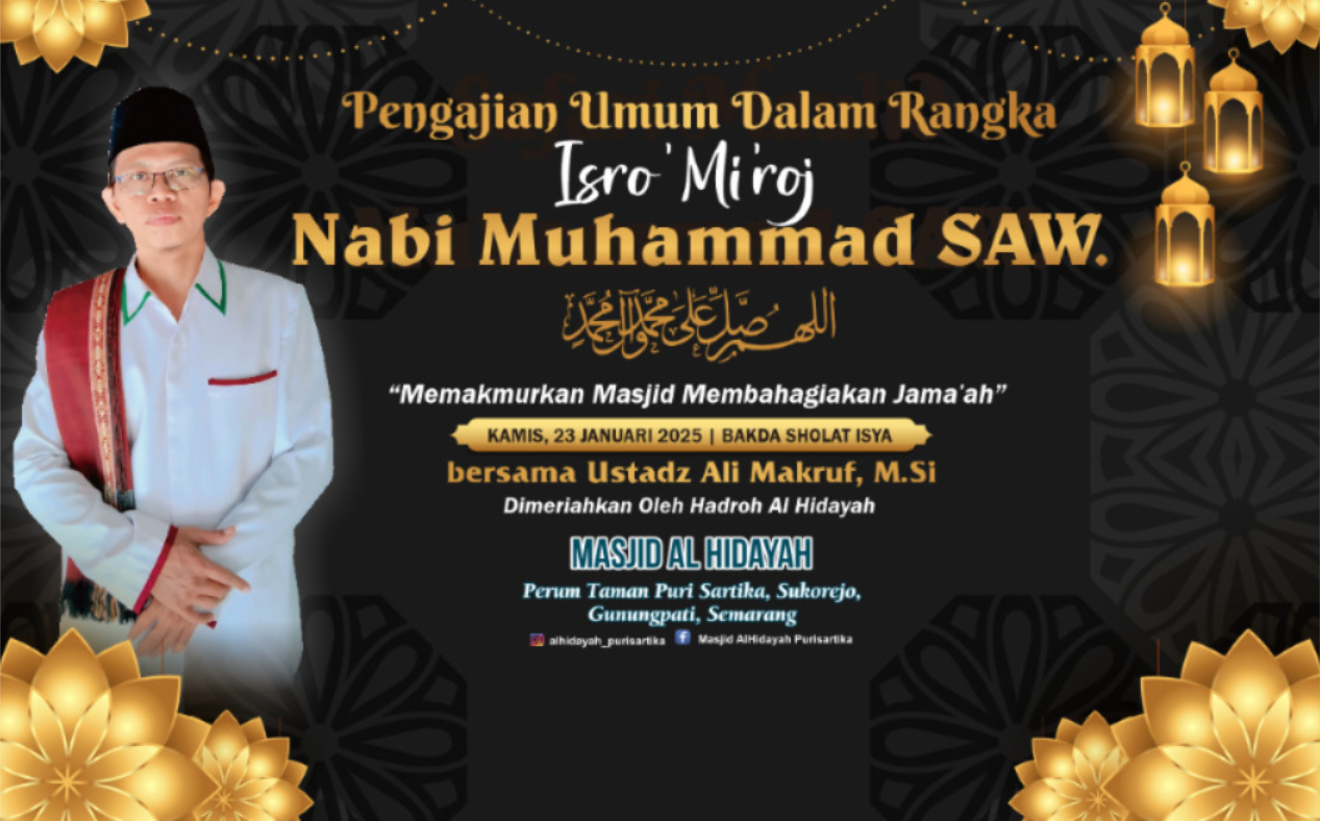
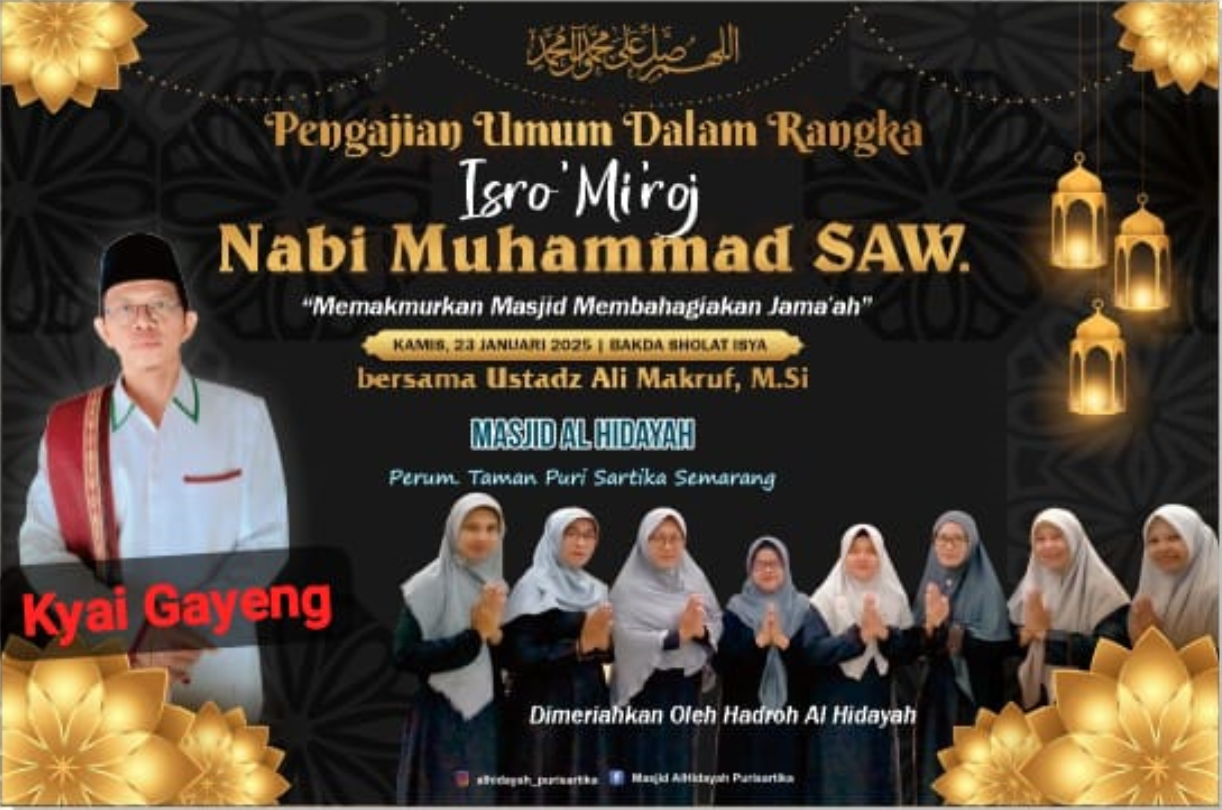
Update website

diff --git a/src/pages/News/News.jsx b/src/pages/News/News.jsx
@@ -1,3 +1,5 @@
+import "./News.css"
+
 export default function News(){
     return (
         <section id="news" className="bg-primary py-32">
@@ -8,20 +10,46 @@ export default function News(){
                         <h2 className="font-bold text-2xl text-white sm:text-3xl">Masjid Al-Hidayah</h2>
                     </div>
                 </div>
-                <div id="content" className="flex flex-wrap">
+                <div id="content" className="flex flex-wrap md:flex-nowrap">
                     <div id="berita" className="p-6">
                         <img 
                         src="https://github.com/raaflahar/masjid-al-hidayah-puri/blob/main/src/img/berita-satu.jpg?raw=true" 
                         alt="Pertemuan Rutin Pengurus Masjid" 
                         className="w-[700px] max-w-md rounded-lg shadow-lg transition-transform duration-300 ease-in-out hover:scale-105 sm:max-w-2xl"/>
                         <h1 className="font-semibold text-white text-md py-2 sm:text-xl">Rapat Kerja DKM Masjid Al-Hidayah</h1>
+                        <div>
+                            <p className="title">Assalamualaikum Warahmatullah Wabaraktuh</p>
+                            <p className="paragraph">Segala puji bagi Allah SWT, Sholawat serta salam selalu kita dengungkan untuk Baginda Rasulullah SAW.</p>
+                            <p className="paragraph">Masjid Al-Hidayah mengadakan Rapat DKM Masjid pada tanggal <span className="text-secondary">19 Januari 2024</span> di Barokah, Sebatur</p>
+                            <p className="paragraph my-1">Agenda-agenda yang dilaksanakan antara lain:</p>
+                            <ol className="font-semibold text-white text-base list-decimal ml-10 sm:text-lg">
+                                <li className="paragraph">Pengesahan Kepengurusan Masjid Al-Hidayah periode tahun 2025</li>
+                                <li className="paragraph">Schedule tahunan kegiatan Masjid Al-Hidayah</li>
+                                <li className="paragraph">Pemberian SK Marbot Masjid Al-Hidayah</li>
+                            </ol>
+                            <p className="paragraph">Wassalamualaikum Warahmatullah Wabaraktuh</p>
+                        </div>
                     </div>
                     <div id="berita" className="p-6">
                         <img 
-                        src="https://github.com/raaflahar/masjid-al-hidayah-puri/blob/main/src/img/pamflet.png?raw=true" 
+                        src="src\img\pamflet.png" 
                         alt="Acara Masjid" 
                         className="w-[700px] max-w-md rounded-lg shadow-lg transition-transform duration-300 ease-in-out hover:scale-105 sm:max-w-2xl"/>
                         <h1 className="font-semibold text-white text-md py-2 sm:text-xl">Pengajian Umum Dalam Rangka Isra' Mi'raj</h1>
+                        <div>
+                            <p className="title">Assalamualaikum Warahmatullah Wabaraktuh</p>
+                            <p className="paragraph">Segala puji bagi Allah SWT, Sholawat serta salam selalu kita dengungkan untuk Baginda Rasulullah SAW.</p>
+                            <p className="paragraph">Datangilah pengajian akbar dalam rangka Isra' Mi'raj dengan pembicara <span className="text-black">Kyai Gayeng</span> dan dimeriahkan Hadroh Al-Hidayah</p>
+                            <p className="paragraph my-1">Waktu & Tempat: </p>
+                            <ul className="font-semibold text-white text-base list-disc ml-10 sm:text-lg">
+                                <li className="text-secondary">Masjid Al-Hidayah, Sukorejo, Gunungpati</li>
+                                <li className="text-secondary">Kamis, 23 Januari 2025 (Bakda Sholat Isya')</li>
+                                <li className=" text-secondary">Ustad Ali Makruf, M.Si. (Kyai Gayeng)</li>
+                            </ul>
+                            <p className="font-semibold text-center text-white text-base sm:text-lg my-2">"Barang siapa menempuh satu jalan (cara) untuk mendapatkan ilmu, maka Allah pasti mudahkan baginya jalan menuju surga." (HR. Muslim)</p>
+                            
+                            <p className="title">Wassalamualaikum Warahmatullah Wabaraktuh</p>
+                        </div>
                     </div>
                 </div>
             </div>

diff --git a/src/pages/Documentation/Documentation.jsx b/src/pages/Documentation/Documentation.jsx
@@ -1,0 +1,50 @@
+import { useState } from 'react';
+
+export default function Documentation(){
+    const photos = [
+        "/img/1.jpg",
+        "/img/2.jpg",
+        "/img/3.jpg",
+        "/img/4.jpg",
+        "/img/5.jpg",
+        "/img/6.jpg",
+        "/img/7.jpg",
+        "/img/8.jpg",
+        "/img/9.jpg",
+    ]
+
+    const [currentIndex, setCurrentIndex] = useState(0);
+    const nextPhoto = () => {
+        setCurrentIndex((prevIndex) => (prevIndex + 1) % photos.length);
+    };
+    
+    const prevPhoto = () => {
+        setCurrentIndex((prevIndex) => (prevIndex - 1 + photos.length) % photos.length);
+    };
+    
+    return (
+        <section id="documentation" className="bg-black py-32">
+            <div className="flex flex-wrap justify-center items-center">
+                <div id="title" className="w-full px-4">
+                    <div className="max-w-xl mx-auto text-center items-center pb-3">
+                        <h4 className="font-semibold text-md text-white sm:text-xl">Dokumentasi Masjid Al-Hidayah</h4>
+                        <h2 className="font-bold text-2xl text-white sm:text-3xl">Dari Masa ke Masa</h2>
+                    </div>
+                </div>
+                <div className='flex flex-col items-center'>
+                    <div>
+                        <img src={photos[currentIndex]} alt={`Photo ${currentIndex+1}`} className="w-[600px] h-[400px] rounded-lg shadow-lg p-2"/>
+                    </div>
+                    <div className='flex justify-between mt-4'>
+                        <button onClick={prevPhoto} className='px-4 py-2 bg-secondary text-white rounded-lg hover:bg-gray-800 transition duration-300 m-2'>
+                            Previous
+                        </button>
+                        <button onClick={nextPhoto} className='px-4 py-2 bg-secondary text-white rounded-lg hover:bg-gray-800 transition duration-300 m-2'>
+                            Next
+                        </button>
+                    </div>
+                </div>
+            </div>
+        </section>
+    )
+}

diff --git a/src/main.jsx b/src/main.jsx
@@ -8,6 +8,7 @@ import Profile from './pages/Profile/Profile'
 import Contact from './pages/Contact/Contact'
 import Footer from './components/Footer/Footer'
 import News from './pages/News/News'
+import Documentation from './pages/Documentation/Documentation'
 
 createRoot(document.getElementById('root')).render(
   <StrictMode>
@@ -15,6 +16,7 @@ createRoot(document.getElementById('root')).render(
     <Hero/>
     <About/>
     <News/>
+    <Documentation/>
     <Profile/>
     <Contact/>
     <Footer/>

diff --git a/src/pages/News/News.css b/src/pages/News/News.css
@@ -1,0 +1,11 @@
+@tailwind base;
+@tailwind components;
+@tailwind utilities;
+
+.title {
+    @apply font-bold text-white text-base text-center sm:text-lg;
+}
+
+.paragraph {
+    @apply font-semibold text-white text-base sm:text-lg;
+}
